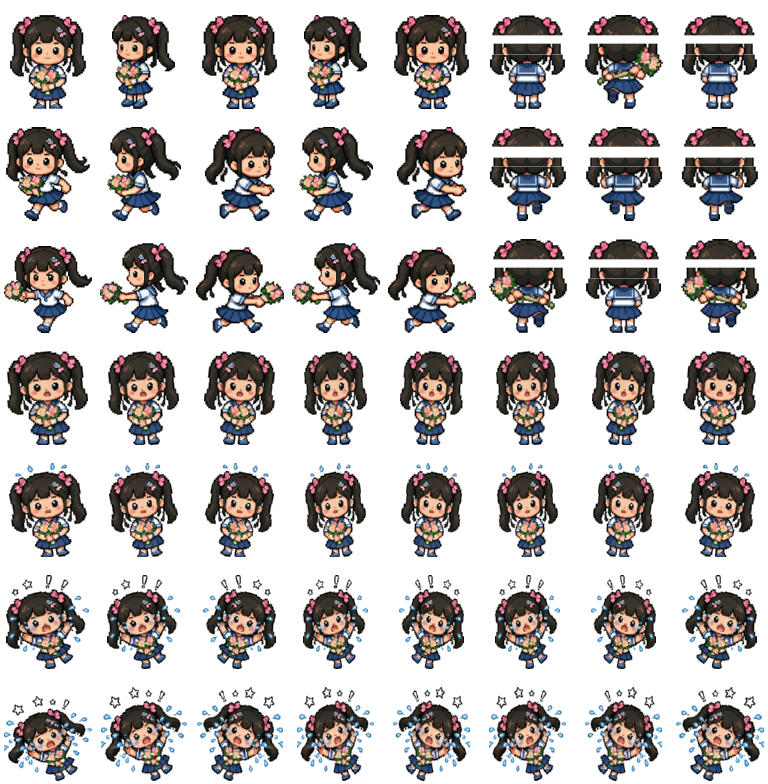
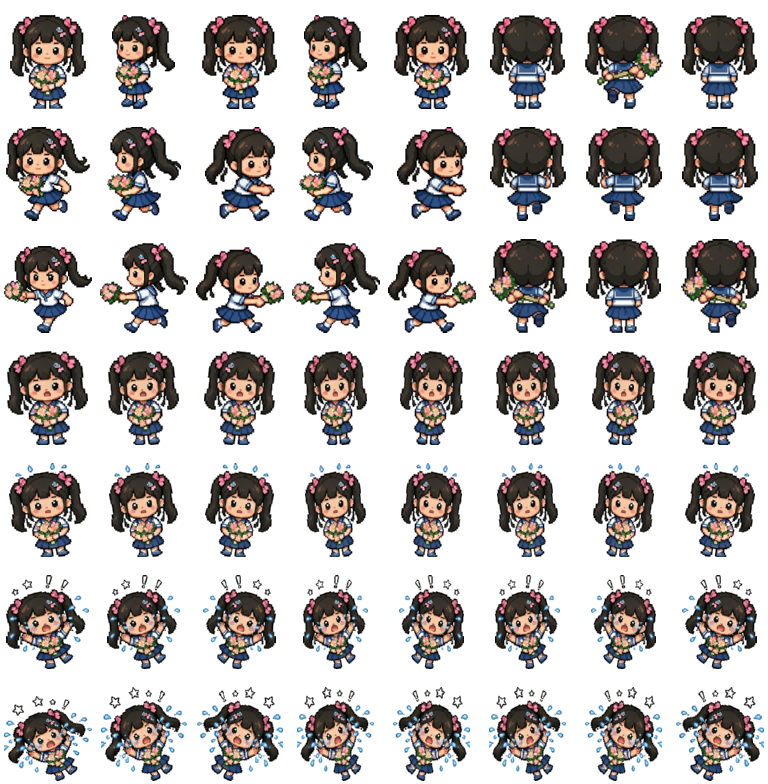
修复背面帧头部空白：边框清理加孤立性判据，避免误删角色整行黑发；清理AI网格碎线

diff --git a/scripts/build-game-atlas.js b/scripts/build-game-atlas.js
@@ -112,13 +112,30 @@ function alphaBBox(im) {
 // 关键：边框线是「横跨 bbox 几乎整宽/整高、且亮度均匀」的线，角色本体绝不会如此。
 // 逐行/逐列检测，命中才清除；绝不按固定像素宽度裁切——那会切掉头发、耳朵、脚。
 function cleanEdgeLines(src, box) {
-  // 判断一整行/列是否是「边框线」：不透明像素横跨 >=90%，且亮度高度一致。
-  // 用 10%~90% 分位差而非极值差，避免线里混入的少数黑点把判定挤掉。
+  // 判断一整行/列是否是「AI 边框线」：
+  //   1) 不透明像素横跨 >=90%，且亮度高度一致（10%~90% 分位差，容忍线里混入的少数黑点）；
+  //   2) 关键：线的外侧一行/列必须几乎全透明 —— 真正的边框线贴在 bbox 边缘、外侧是空的，
+  //      而角色自身的横行（如背面视角的纯黑后脑勺、衣服横纹）上下都有像素相连，外侧不空，
+  //      这样就不会再把角色的头/身体当成线误删。
   function spanOf(lums) {
     lums.sort((a, b) => a - b);
     const lo = lums[Math.floor(lums.length * 0.10)];
     const hi = lums[Math.floor(lums.length * 0.90)];
     return hi - lo;
+  }
+  function countOpaqueRow(y) {
+    let n = 0;
+    for (let x = box.x; x < box.x + box.w; x++) if (src.data[(y * src.w + x) * 4 + 3] > 40) n++;
+    return n;
+  }
+  function countOpaqueCol(x) {
+    let n = 0;
+    for (let y = box.y; y < box.y + box.h; y++) if (src.data[(y * src.w + x) * 4 + 3] > 40) n++;
+    return n;
+  }
+  function alphaAt(x, y) {
+    if (x < 0 || y < 0 || x >= src.w || y >= src.h) return 0;
+    return src.data[(y * src.w + x) * 4 + 3];
   }
   function rowIsLine(y) {
     const lums = [];
@@ -126,7 +143,12 @@ function cleanEdgeLines(src, box) {
       const p = (y * src.w + x) * 4;
       if (src.data[p + 3] > 40) lums.push((src.data[p] + src.data[p + 1] + src.data[p + 2]) / 3);
     }
-    return lums.length >= box.w * 0.9 && spanOf(lums) < 42;
+    if (lums.length < box.w * 0.9 || spanOf(lums) >= 42) return false;
+    // 外侧：离哪条 bbox 边更近就查那一侧
+    const outerY = (y - box.y) < (box.y + box.h - 1 - y) ? y - 1 : y + 1;
+    let outerCnt = 0;
+    for (let x = box.x; x < box.x + box.w; x++) if (alphaAt(x, outerY) > 40) outerCnt++;
+    return outerCnt < box.w * 0.3;
   }
   function colIsLine(x) {
     const lums = [];
@@ -134,7 +156,11 @@ function cleanEdgeLines(src, box) {
       const p = (y * src.w + x) * 4;
       if (src.data[p + 3] > 40) lums.push((src.data[p] + src.data[p + 1] + src.data[p + 2]) / 3);
     }
-    return lums.length >= box.h * 0.9 && spanOf(lums) < 42;
+    if (lums.length < box.h * 0.9 || spanOf(lums) >= 42) return false;
+    const outerX = (x - box.x) < (box.x + box.w - 1 - x) ? x - 1 : x + 1;
+    let outerCnt = 0;
+    for (let y = box.y; y < box.y + box.h; y++) if (alphaAt(outerX, y) > 40) outerCnt++;
+    return outerCnt < box.h * 0.3;
   }
   // 反复剥离：部分帧同时存在黑框 + 内层灰线；每轮重算边界，直到没有新线
   for (let pass = 0; pass < 8; pass++) {
@@ -171,6 +197,59 @@ function cleanEdgeLines(src, box) {
       if (neighbors <= 1) src.data[p + 3] = 0;
     }
   }
+  // 清除与主体不相连的低饱和灰色小簇（AI 网格线被剥离后残留的 2~5 像素碎段）。
+  // 判据刻意严格：必须是小、扁、灰、中亮、位于上半部、且不是最大连通域。
+  // 红色眼睛、蓝色眼泪、白色星星等都因高饱和/高亮而被排除，不会误伤。
+  {
+    const visited = new Uint8Array(src.w * src.h);
+    const clusters = [];
+    for (let y = box.y; y < box.y + box.h; y++) {
+      for (let x = box.x; x < box.x + box.w; x++) {
+        const start = y * src.w + x;
+        if (visited[start] || src.data[start * 4 + 3] <= 12) continue;
+        const stack = [start];
+        visited[start] = 1;
+        const cells = [];
+        let cnt = 0, minx = x, maxx = x, miny = y, maxy = y, satSum = 0, lumSum = 0;
+        while (stack.length) {
+          const cur = stack.pop(), cy = (cur / src.w) | 0, cx = cur - cy * src.w;
+          const p = cur * 4, r = src.data[p], g = src.data[p + 1], b = src.data[p + 2];
+          cells.push(cur); cnt++;
+          if (cx < minx) minx = cx;
+          if (cx > maxx) maxx = cx;
+          if (cy < miny) miny = cy;
+          if (cy > maxy) maxy = cy;
+          satSum += Math.max(r, g, b) - Math.min(r, g, b);
+          lumSum += (r + g + b) / 3;
+          for (let dy = -1; dy <= 1; dy++) {
+            for (let dx = -1; dx <= 1; dx++) {
+              if (!dx && !dy) continue;
+              const nx = cx + dx, ny = cy + dy;
+              if (nx < box.x || ny < box.y || nx >= box.x + box.w || ny >= box.y + box.h) continue;
+              const ni = ny * src.w + nx;
+              if (visited[ni] || src.data[ni * 4 + 3] <= 12) continue;
+              visited[ni] = 1;
+              stack.push(ni);
+            }
+          }
+        }
+        clusters.push({ cells, cnt, w: maxx - minx + 1, h: maxy - miny + 1,
+          miny, sat: satSum / cnt, lum: lumSum / cnt });
+      }
+    }
+    if (clusters.length > 1) {
+      let main = 0;
+      for (let i = 1; i < clusters.length; i++) if (clusters[i].cnt > clusters[main].cnt) main = i;
+      for (let i = 0; i < clusters.length; i++) {
+        if (i === main) continue;
+        const c = clusters[i];
+        if (c.cnt > box.w * box.h * 0.03 || c.h > 4 || c.w < 12) continue;
+        if (c.sat > 35 || c.lum > 210) continue;
+        if (c.miny > box.y + box.h * 0.5) continue;
+        for (const idx of c.cells) src.data[idx * 4 + 3] = 0;
+      }
+    }
+  }
 }
 
 // alpha 加权 box 缩放，避免透明黑边污染颜色
@@ -194,6 +273,63 @@ function scaleInto(src, box, dw, dh, dest, destW, ox, oy) {
         dest[p] = Math.round(r / a); dest[p + 1] = Math.round(g / a);
         dest[p + 2] = Math.round(b / a); dest[p + 3] = Math.round(a / n);
       } else dest[p + 3] = 0;
+    }
+  }
+}
+
+// 图集级：清除一格内与主体不相连的低饱和灰色小簇（缩放后分离的 AI 网格碎线）。
+// 只清：小、扁、灰、中亮、位于上半部、非最大簇；彩色/高亮特效（红眼、蓝眼泪、白星星）自动排除。
+function cleanCellFragments(buf, bufW, cellX, cellY) {
+  const visited = new Uint8Array(CELL_W * CELL_H);
+  const clusters = [];
+  const alphaAt = (x, y) => buf[((cellY + y) * bufW + cellX + x) * 4 + 3];
+  for (let y = 0; y < CELL_H; y++) {
+    for (let x = 0; x < CELL_W; x++) {
+      const start = y * CELL_W + x;
+      if (visited[start] || alphaAt(x, y) <= 12) continue;
+      const stack = [start];
+      visited[start] = 1;
+      const cells = [];
+      let cnt = 0, minx = x, maxx = x, miny = y, maxy = y, satSum = 0, lumSum = 0;
+      while (stack.length) {
+        const cur = stack.pop(), cy = (cur / CELL_W) | 0, cx = cur - cy * CELL_W;
+        const p = ((cellY + cy) * bufW + cellX + cx) * 4;
+        const r = buf[p], g = buf[p + 1], b = buf[p + 2];
+        cells.push(cur); cnt++;
+        if (cx < minx) minx = cx;
+        if (cx > maxx) maxx = cx;
+        if (cy < miny) miny = cy;
+        if (cy > maxy) maxy = cy;
+        satSum += Math.max(r, g, b) - Math.min(r, g, b);
+        lumSum += (r + g + b) / 3;
+        for (let dy = -1; dy <= 1; dy++) {
+          for (let dx = -1; dx <= 1; dx++) {
+            if (!dx && !dy) continue;
+            const nx = cx + dx, ny = cy + dy;
+            if (nx < 0 || ny < 0 || nx >= CELL_W || ny >= CELL_H) continue;
+            const ni = ny * CELL_W + nx;
+            if (visited[ni] || alphaAt(nx, ny) <= 12) continue;
+            visited[ni] = 1;
+            stack.push(ni);
+          }
+        }
+      }
+      clusters.push({ cells, cnt, w: maxx - minx + 1, h: maxy - miny + 1,
+        miny, sat: satSum / cnt, lum: lumSum / cnt });
+    }
+  }
+  if (clusters.length < 2) return;
+  let main = 0;
+  for (let i = 1; i < clusters.length; i++) if (clusters[i].cnt > clusters[main].cnt) main = i;
+  for (let i = 0; i < clusters.length; i++) {
+    if (i === main) continue;
+    const c = clusters[i];
+    if (c.cnt > CELL_W * CELL_H * 0.03 || c.h > 4 || c.w < 12) continue;
+    if (c.sat > 35 || c.lum > 210) continue;
+    if (c.miny > CELL_H * 0.5) continue;
+    for (const idx of c.cells) {
+      const x = idx % CELL_W, y = (idx / CELL_W) | 0;
+      buf[((cellY + y) * bufW + cellX + x) * 4 + 3] = 0;
     }
   }
 }
@@ -238,6 +374,11 @@ for (const [id, kind] of CHARS) {
         atlas[(y * atlasW + x0 + CELL_W - 1 - k) * 4 + 3] = 0;
       }
     }
+  }
+  // 图集级碎线清理：AI 网格线被剥离后，部分灰线要在缩放后才与角色分离，
+  // 因此在写文件前对每格再做一次「独立灰色小簇」清理（判据严格，不碰彩色特效）。
+  for (let r = 0; r < rows; r++) {
+    for (let c = 0; c < COLS; c++) cleanCellFragments(atlas, atlasW, c * CELL_W, r * CELL_H);
   }
   const file = path.join(OUT, id + '.png');
   writePNG(file, atlasW, atlasH, atlas);
